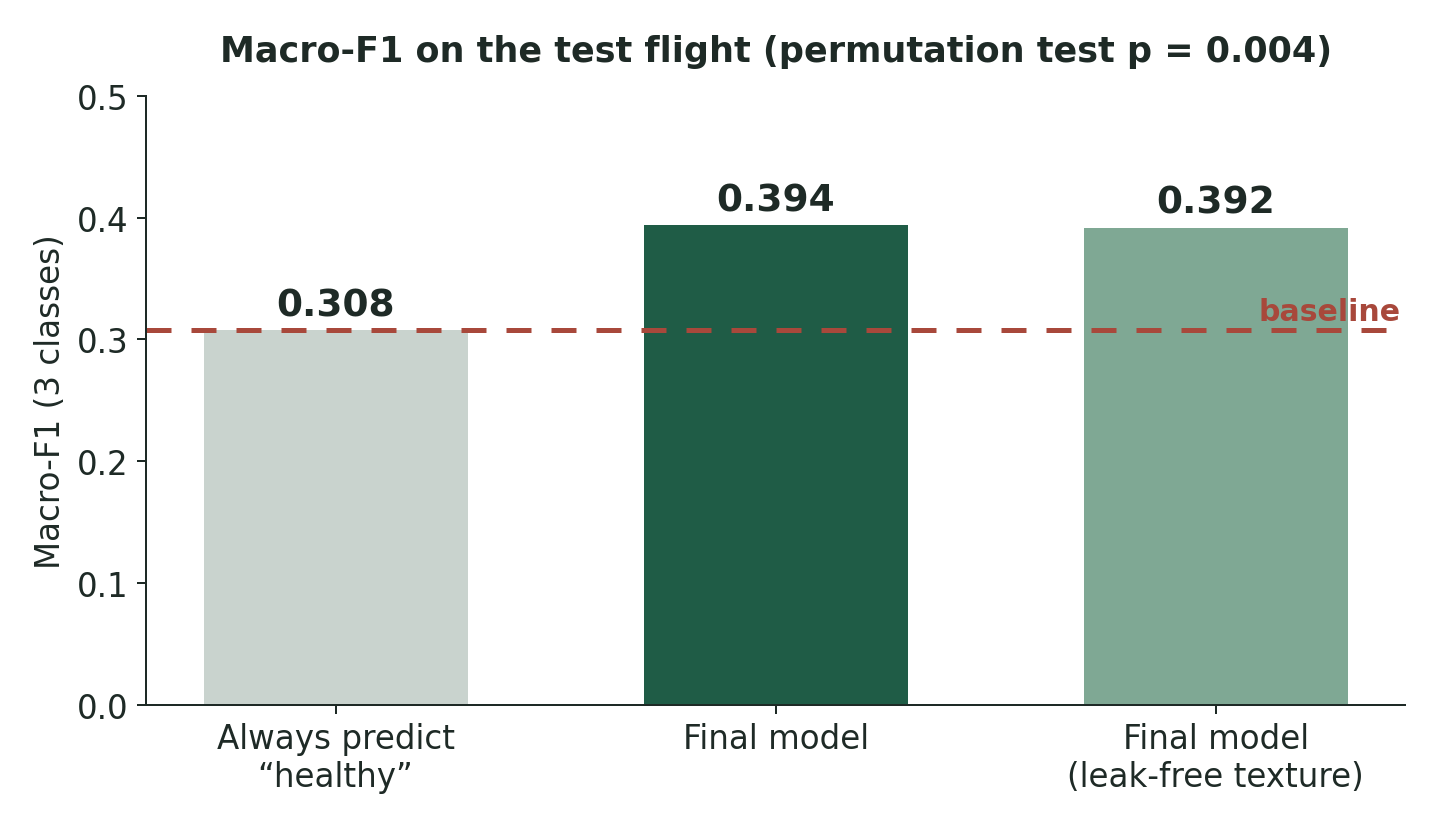
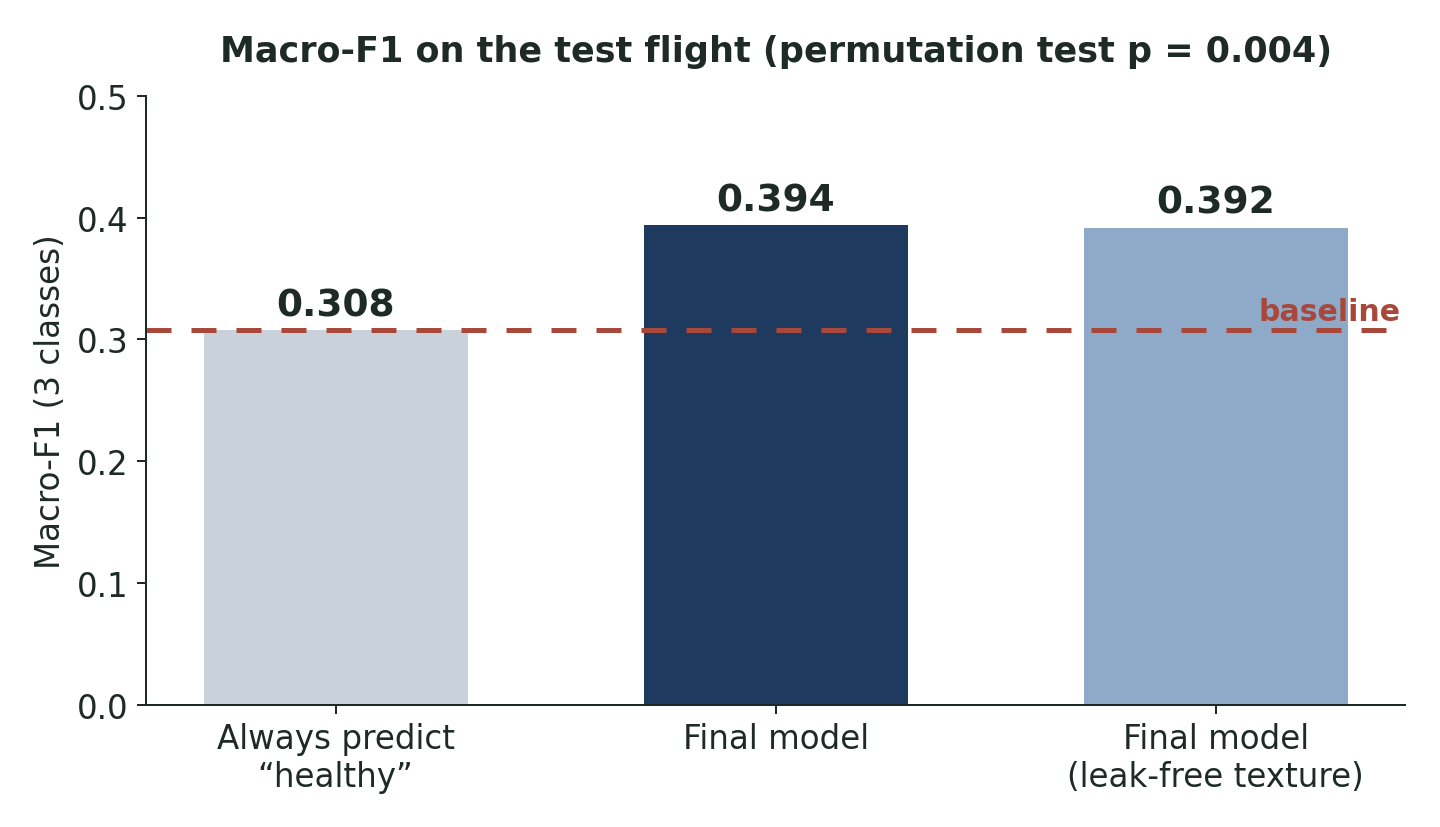
Review fixes: photo chronology and captions, removed unrelated photos, wording, navy charts

Changed region(s): [[0.4375, 0.2721, 0.6562, 0.8767], [0.75, 0.2721, 0.9375, 0.8767]]

diff --git a/projects/potato-late-blight/make_figures.py b/projects/potato-late-blight/make_figures.py
@@ -7,7 +7,7 @@ matplotlib.use("Agg")
 import matplotlib.pyplot as plt
 
 FOREST, SAGE, ROSE, BLUSH, LAV, BUTTER, CREAM = (
-    "#1E2A26", "#1F5C46", "#A8483B", "#C9D3CE", "#7FA894", "#F2F6F4", "#FFFFFF")
+    "#1E2A26", "#1F3A5F", "#A8483B", "#C9D1DB", "#8FA9C8", "#F3F5F8", "#FFFFFF")
 plt.rcParams.update({"font.family": "sans-serif", "axes.spines.top": False, "font.size": 13,
                      "axes.edgecolor": FOREST, "text.color": FOREST,
                      "axes.labelcolor": FOREST, "xtick.color": FOREST, "ytick.color": FOREST})
